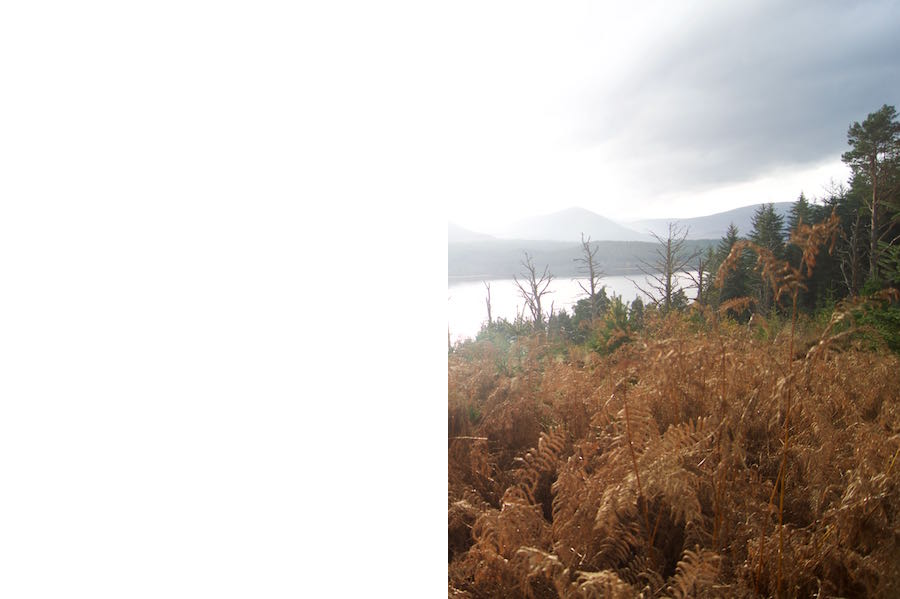
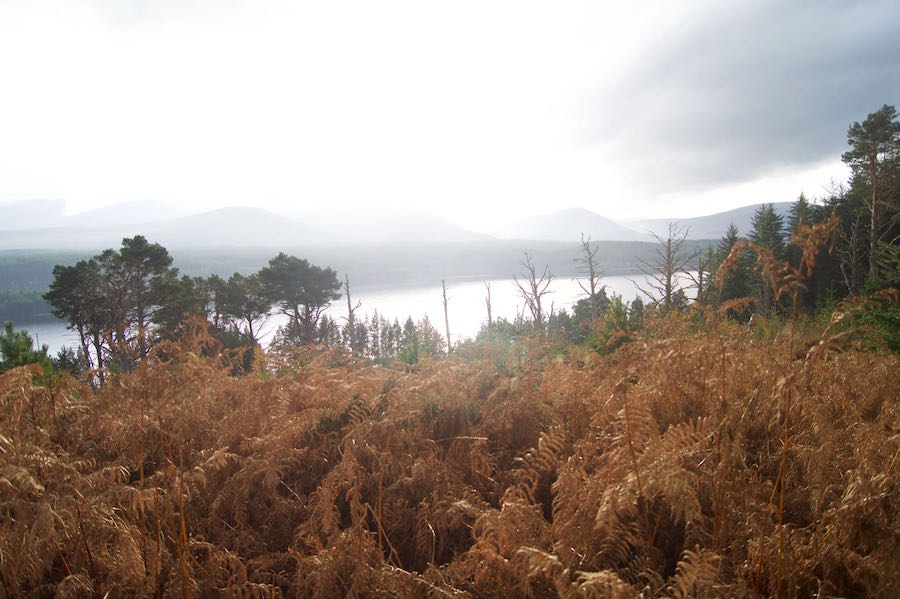
JS code to switch main image every 3 secs.

Changed region(s): [[0.0, 0.3306, 0.4978, 1.0]]

diff --git a/js/picturefill.min.js b/js/picturefill.min.js
@@ -1,0 +1,5 @@
+/*! picturefill - v3.0.2 - 2016-02-12
+ * https://scottjehl.github.io/picturefill/
+ * Copyright (c) 2016 https://github.com/scottjehl/picturefill/blob/master/Authors.txt; Licensed MIT
+ */
[1 lines of base64/hex data omitted]

diff --git a/index.html b/index.html
@@ -10,13 +10,18 @@
     <link rel="preconnect" href="https://fonts.gstatic.com">
     <link href="https://fonts.googleapis.com/css2?family=Indie+Flower&family=Raleway:wght@300&family=Stick&display=swap" rel="stylesheet">
     <link rel="stylesheet" href="stylesheet.css" type="text/css" media="all">
+    <script>
+        // Picture element HTML5 shiv
+        document.createElement( "picture" );
+    </script>
+    <script src="js/picturefill.min.js" async></script>
+    <script src="js/pictureList.js" async></script>
     <script src="js/script.js" defer></script>
     <script src="js/imageScript.js" defer></script>
 </head>
 
 <body>
     <a hidden class="skip-link screen-reader-text" href="#content">Skip to content</a>
-
     <header>
         <h1>Trip to the Cairngorms</h1>
     </header>
@@ -28,31 +33,16 @@
       <section>   <!-- main picture -->
         <h3>A few pictures</h3>
           <figure>
-              <img  srcset="/images/DSC00210_320.jpg 320w,
-                            /images/DSC00210_640.jpg  640w,
-                            /images/DSC00210_1024.jpg 1024w"
-                    sizes="(max-width: 640px) 340px,
-                           (max-width: 1024px) 640px,
-                           1024px"
-                    src="/images/DSC00210_640.jpg"
-                    sizes="(max-width: 640px)"
+              <img  srcset="images/400/DSC00210.jpg 400w,
+                            images/600/DSC00210.jpg 600w,
+                            images/900/DSC00210.jpg 900w,
+                            images/1200/DSC00210.jpg 1200w,
+                            images/1800/DSC00210.jpg 1800w"
+                    src="/images/DSC00210.jpg"
                     alt="Picture of the ruins of an acqueduct near Glenshee ski centre in the Cairngorms National Park, in Scotland."
                     width="" height="">
               <figcaption>Ruins of an acqueduct near <i>Glenshee</i> ski centre in the Cairngorms National Park, in Scotland.</figcaption>
           </figure>
-
-          <!-- <figure>
-              <img  srcset="/images/DSC00260_320.jpg 320w,
-                            /images/DSC00260_640.jpg 640w,
-                            /images/DSC00260_1024.jpg 1024w"
-                    sizes="(max-width: 640px) 340px,
-                           (max-width: 1024px) 640px,
-                           1024px"
-                    src="/images/DSC00260_1024.jpg"
-                    alt="Picture of a river going through the town of Braemar in the Cairngorms National Park, in Scotland."
-                    width="" height="">
-              <figcaption><i>The Clunie Water</i> stream going through the town of <i>Braemar</i> in the Cairngorms National Park, in Scotland. The picture is taken from the <i>The Old Military Road</i> bridge over the river.</figcaption>
-          </figure> -->
       </section>
     </main><!-- .main-area -->
     <nav>

diff --git a/js/script.js b/js/script.js
@@ -1,5 +1,5 @@
-const HEADERTITLE = document.querySelector(".site-title > a").innerText;
-const IMAGES = document.querySelectorAll('img');
+// const HEADERTITLE = document.querySelector(".site-title > a").innerText;
+// const IMAGES = document.querySelectorAll('img');
 const SIZES = {small: {width: 320, height: 213},
                 medium: {width: 640, height: 426},
                 large: {width: 1024, height: 682}
@@ -7,24 +7,24 @@ const SIZES = {small: {width: 320, height: 213},
 
 // load header background image depending of widow width
 var WIDTH;
-function header() {
-    WIDTH = window.innerWidth;
-    var pic = [];         // w & h of image
-    if (WIDTH >= 1024) {
-      pic = [1024, 197];
-      document.querySelector('.site-title').innerHTML = HEADERTITLE;
-      return "background: url(images/DSC00227_" + pic[0] + ".jpg) no-repeat center orange; height: " + pic[1] + "px";
-    } else if (WIDTH >= 640) {
-      pic = [640, 123];
-      document.querySelector('.site-title').innerHTML = HEADERTITLE;
-      return "background: url(images/DSC00227_" + pic[0] + ".jpg) no-repeat center orange; height: " + pic[1] + "px";
-    } else {
-      pic = [0, 0];
-      document.querySelector('.site-title').innerHTML = "";
-      return "height: " + pic[1] + "px";
-      //document.querySelector('header').
-    }
-}
+// function header() {
+//     WIDTH = window.innerWidth;
+//     var pic = [];         // w & h of image
+//     if (WIDTH >= 1024) {
+//       pic = [1024, 197];
+//       document.querySelector('.site-title').innerHTML = HEADERTITLE;
+//       return "background: url(images/DSC00227_" + pic[0] + ".jpg) no-repeat center orange; height: " + pic[1] + "px";
+//     } else if (WIDTH >= 640) {
+//       pic = [640, 123];
+//       document.querySelector('.site-title').innerHTML = HEADERTITLE;
+//       return "background: url(images/DSC00227_" + pic[0] + ".jpg) no-repeat center orange; height: " + pic[1] + "px";
+//     } else {
+//       pic = [0, 0];
+//       document.querySelector('.site-title').innerHTML = "";
+//       return "height: " + pic[1] + "px";
+//       //document.querySelector('header').
+//     }
+// }
 
 // Add dimensions of window on page
 function displayScreenSize() {
@@ -56,8 +56,8 @@ function updateImageSize() {
 
 function lauch() {
   displayScreenSize();
-  updateImageSize();
-  document.querySelector('header').setAttribute("style", header(WIDTH));
+  // updateImageSize();
+  // document.querySelector('header').setAttribute("style", header(WIDTH));
 }
 
 // document.querySelector('header').setAttribute("style", header(WIDTH));

diff --git a/js/imageScript.js b/js/imageScript.js
@@ -1,17 +1,19 @@
-const IMAGELIST = ["DSC00210.jpg", "DSC00249.jpg", "DSC00261.jpg", "DSC00315.jpg", "DSC00318.jpg",
-"DSC00336.jpg", "DSC00354.jpg", "DSC00366.jpg", "DSC00369.jpg", "DSC00375.jpg","DSC00387.jpg",
-"DSC00393.jpg", "DSC00408.jpg",  "DSC00423.jpg", "DSC00435.jpg", "DSC00461.jpg", "DSC00465.jpg",
-"DSC00474.jpg", "DSC00501.jpg", "DSC00504.jpg", "DSC00525.jpg", "DSC00531.jpg"]
+// const IMAGELIST is locatedin 'js/PictureList'.
 
-var mainImg = document.querySelector('main > section > figure > img')
+var mainImg = document.querySelector('main > section > figure > img');
+let n = 0;
 
-// <img  srcset="/images/DSC00210_320.jpg 320w,
-//               /images/DSC00210_640.jpg  640w,
-//               /images/DSC00210_1024.jpg 1024w"
-//       sizes="(max-width: 640px) 340px,
-//              (max-width: 1024px) 640px,
-//              1024px"
-//       src="/images/DSC00210_640.jpg"
-//       sizes="(max-width: 640px)"
-//       alt="Picture of the ruins of an acqueduct near Glenshee ski centre in the Cairngorms National Park, in Scotland."
-//       width="" height="">
+// Change the name to callback in changeImg.
+function updateImg() {
+  (n == IMAGELIST.length - 1) ? n = 0 : n++;
+    console.log("n = " + n + " ; " + IMAGELIST[n].name);
+    changeImg(IMAGELIST[n].name);
+}
+
+// This function update srcset and src for mainImg. Keept seperate to re-use when adding buttons.
+function changeImg(i) {
+  mainImg.srcset = "images/400/" + i + " 400w, images/600/" + i + " 600w, images/900/" + i + " 900w, images/1200/" + i + " 1200w,images/1800/" + i + " 1800w";
+  mainImg.src = "images/600/" + i;
+}
+
+let timerId = setInterval(updateImg, 3000);

diff --git a/js/pictureList.js b/js/pictureList.js
@@ -1,0 +1,11 @@
+// Contains list of images uploaded onto site.
+//This must match with images loaded in /images subfolders.
+
+const IMAGELIST = [{name: "DSC00210.jpg"}, {name: "DSC00249.jpg"}, {name: "DSC00261.jpg"},
+{name: "DSC00315.jpg"}, {name: "DSC00318.jpg"}, {name: "DSC00336.jpg"},
+{name: "DSC00354.jpg"}, {name: "DSC00366.jpg"}, {name: "DSC00369.jpg"},
+{name: "DSC00375.jpg"}, {name: "DSC00387.jpg"}, {name: "DSC00393.jpg"},
+{name: "DSC00408.jpg"}, {name: "DSC00423.jpg"}, {name: "DSC00435.jpg"},
+{name: "DSC00461.jpg"}, {name: "DSC00465.jpg"}, {name: "DSC00474.jpg"},
+{name: "DSC00501.jpg"}, {name: "DSC00504.jpg"}, {name: "DSC00525.jpg"},
+{name: "DSC00531.jpg"}]
